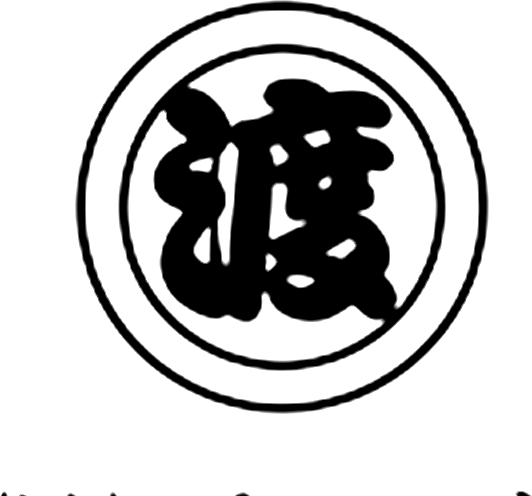
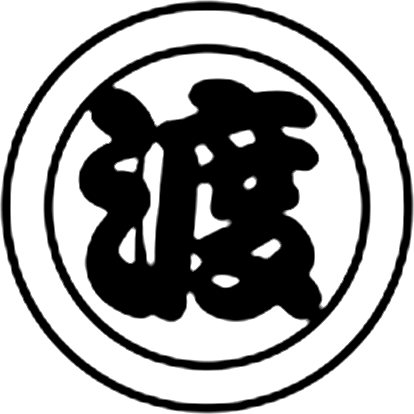
表示を更新（2026-11-12）

diff --git a/index.html b/index.html
@@ -23,9 +23,9 @@
   <link rel="preconnect" href="https://fonts.googleapis.com">
   <link rel="preconnect" href="https://fonts.gstatic.com" crossorigin>
   <link href="https://fonts.googleapis.com/css2?family=Outfit:wght@500;700;800&family=Reggae+One&family=Dela+Gothic+One&family=Noto+Sans+JP:wght@400;500;700;900&display=swap" rel="stylesheet">
-  <link rel="stylesheet" href="tokens.css?v=20261112202652">
-  <link rel="stylesheet" href="base.css?v=20261112202652">
-  <link rel="stylesheet" href="style.css?v=20261112202652">
+  <link rel="stylesheet" href="tokens.css?v=20261112202949">
+  <link rel="stylesheet" href="base.css?v=20261112202949">
+  <link rel="stylesheet" href="style.css?v=20261112202949">
 </head>
 <body>
   <svg width="0" height="0" class="defs" aria-hidden="true">
@@ -36,7 +36,7 @@
 
     <div class="intro" aria-hidden="true">
     <div class="intro__in">
-      <img class="intro__mark" src="assets/emblem-w.png" alt="" width="532" height="496">
+      <img class="intro__mark" src="assets/emblem-w.png" alt="" width="414" height="414">
     </div>
   </div>
 
@@ -44,14 +44,14 @@
         <aside class="rail rail--left" aria-hidden="true">
       <div class="rail-deco rail-deco--left">
         <span class="rail-deco__slab"></span>
-        <img class="rail-deco__emblem" src="assets/emblem.png" alt="" width="532" height="496">
+        <img class="rail-deco__emblem" src="assets/emblem.png" alt="" width="414" height="414">
         <span class="rail-deco__flow"></span>
         <span class="rail-photo rail-photo--a"><img src="assets/photo/fv_team.jpg" alt="" width="900" height="1350"></span>
         <span class="rail-photo rail-photo--b"><img src="assets/photo/work.jpg" alt="" width="1000" height="750"></span>
         <span class="rail-deco__dots"></span>
       </div>
       <div class="rail-logo">
-        <img class="rail-logo__img" src="assets/logo-h.png" alt="" width="467" height="160" decoding="async">
+        <img class="rail-logo__img" src="assets/logo-h.png" alt="" width="455" height="160" decoding="async">
         <p class="rail-logo__en">RECRUITING SITE</p>
         <p class="rail-logo__jobs">足場職人</p>
       </div>
@@ -59,7 +59,7 @@
 
     <div class="column" data-tone="light" data-page="top">
       <header class="site-header">
-        <a class="logo" href="#top"><img src="assets/logo-h.png" alt="株式会社渡工業" width="467" height="160" decoding="async"></a>
+        <a class="logo" href="#top"><img src="assets/logo-h.png" alt="株式会社渡工業" width="455" height="160" decoding="async"></a>
         <nav class="header-nav" aria-label="メインナビゲーション">
           <a class="hb hb--req" href="#requirements">募集要項</a>
           <a class="hb hb--entry" href="#entry">エントリー</a>
@@ -70,14 +70,14 @@
 
                 <section class="page page--hero" id="top" data-tone="light" data-label="TOP" data-next="はじめに">
           <h1 class="vh">株式会社渡工業 足場職人 採用サイト</h1>
-          <video class="hero__video" src="assets/hero.mp4?v=20261112202652" poster="assets/hero-poster.jpg?v=20261112202652" autoplay muted loop playsinline></video>
+          <video class="hero__video" src="assets/hero.mp4?v=20261112202949" poster="assets/hero-poster.jpg?v=20261112202949" autoplay muted loop playsinline></video>
           <p class="hero__swipe" aria-hidden="true"><span>SWIPE UP</span></p>
         </section>
 
                 <section class="page pg-fv" id="p1" data-tone="light" data-label="MESSAGE" data-next="代表の思い">
           <div data-bleed class="bg bg--paper" aria-hidden="true">
             <span class="slab slab--fv"></span>
-            <img class="emblem emblem--fv" src="assets/emblem.png" alt="" width="532" height="496">
+            <img class="emblem emblem--fv" src="assets/emblem.png" alt="" width="414" height="414">
           </div>
           <div class="page__inner">
             <figure class="fv-photo" data-bleed><img class="fv-photo__cut" src="assets/photo/cut_fv_team.webp" alt="足場の上に立つ渡工業の職人たち" width="900" height="986"></figure>
@@ -94,7 +94,7 @@
           <div data-bleed class="bg bg--paper" aria-hidden="true">
             <span class="deco-dots"></span>
             <span class="deco-stripes"></span>
-            <img class="emblem emblem--paper" src="assets/emblem.png" alt="" width="532" height="496">
+            <img class="emblem emblem--paper" src="assets/emblem.png" alt="" width="414" height="414">
             <span class="flowtxt">WATARI KOGYO WATARI KOGYO WATARI KOGYO</span>
           </div>
           <div class="page__inner">
@@ -124,7 +124,7 @@
           <div data-bleed class="bg bg--paper" aria-hidden="true">
             <span class="deco-dots"></span>
             <span class="deco-stripes"></span>
-            <img class="emblem emblem--paper" src="assets/emblem.png" alt="" width="532" height="496">
+            <img class="emblem emblem--paper" src="assets/emblem.png" alt="" width="414" height="414">
             <span class="flowtxt">WATARI KOGYO WATARI KOGYO WATARI KOGYO</span>
             <span class="tri tri--tl"></span>
           </div>
@@ -165,7 +165,7 @@
             <span class="flowtxt flowtxt--light">WATARI KOGYO WATARI KOGYO WATARI KOGYO</span>
             <span class="sparks"></span>
             <span class="band band--red"></span>
-            <img class="emblem emblem--pay" src="assets/emblem-w.png" alt="" width="532" height="496">
+            <img class="emblem emblem--pay" src="assets/emblem-w.png" alt="" width="414" height="414">
           </div>
           <div class="page__inner">
             <div class="head">
@@ -193,7 +193,7 @@
           <div data-bleed class="bg bg--paper" aria-hidden="true">
             <span class="deco-dots"></span>
             <span class="deco-stripes"></span>
-            <img class="emblem emblem--paper" src="assets/emblem.png" alt="" width="532" height="496">
+            <img class="emblem emblem--paper" src="assets/emblem.png" alt="" width="414" height="414">
             <span class="flowtxt">WATARI KOGYO WATARI KOGYO WATARI KOGYO</span>
             <span class="slab slab--bonus"></span>
           </div>
@@ -219,7 +219,7 @@
           <div data-bleed class="bg bg--red" aria-hidden="true">
             <span class="flowtxt flowtxt--light">WATARI KOGYO WATARI KOGYO WATARI KOGYO</span>
             <span class="sparks"></span>
-            <img class="emblem emblem--invest" src="assets/emblem-w.png" alt="" width="532" height="496">
+            <img class="emblem emblem--invest" src="assets/emblem-w.png" alt="" width="414" height="414">
           </div>
           <div class="page__inner">
             <div class="brush">
@@ -240,7 +240,7 @@
           <div data-bleed class="bg bg--paper" aria-hidden="true">
             <span class="deco-dots"></span>
             <span class="deco-stripes"></span>
-            <img class="emblem emblem--paper" src="assets/emblem.png" alt="" width="532" height="496">
+            <img class="emblem emblem--paper" src="assets/emblem.png" alt="" width="414" height="414">
             <span class="flowtxt">WATARI KOGYO WATARI KOGYO WATARI KOGYO</span>
             <span class="slab slab--off"></span>
           </div>
@@ -336,7 +336,7 @@
                 <section class="page page--long pg-entry" id="entry" data-tone="light" data-label="ENTRY">
           <div data-bleed class="bg bg--paper" aria-hidden="true">
             <span class="slab slab--entry"></span>
-            <img class="emblem emblem--entry" src="assets/emblem.png" alt="" width="532" height="496">
+            <img class="emblem emblem--entry" src="assets/emblem.png" alt="" width="414" height="414">
           </div>
           <div class="page__inner">
             <div class="head">
@@ -388,7 +388,7 @@
         <aside class="rail rail--right">
       <div class="rail-deco rail-deco--right" aria-hidden="true">
         <span class="rail-deco__slab rail-deco__slab--r"></span>
-        <img class="rail-deco__emblem rail-deco__emblem--r" src="assets/emblem-w.png" alt="" width="532" height="496">
+        <img class="rail-deco__emblem rail-deco__emblem--r" src="assets/emblem-w.png" alt="" width="414" height="414">
         <span class="rail-photo rail-photo--c"><img src="assets/photo/bbq.jpg" alt="" width="1000" height="750"></span>
         <span class="rail-photo rail-photo--d"><img src="assets/photo/crew.jpg" alt="" width="1200" height="675"></span>
         <span class="rail-deco__stripes"></span>
@@ -404,7 +404,7 @@
     </aside>
   </div>
 
-  <script src="swipe.js?v=20261112202652"></script>
-  <script src="site.js?v=20261112202652"></script>
+  <script src="swipe.js?v=20261112202949"></script>
+  <script src="site.js?v=20261112202949"></script>
 </body>
 </html>
